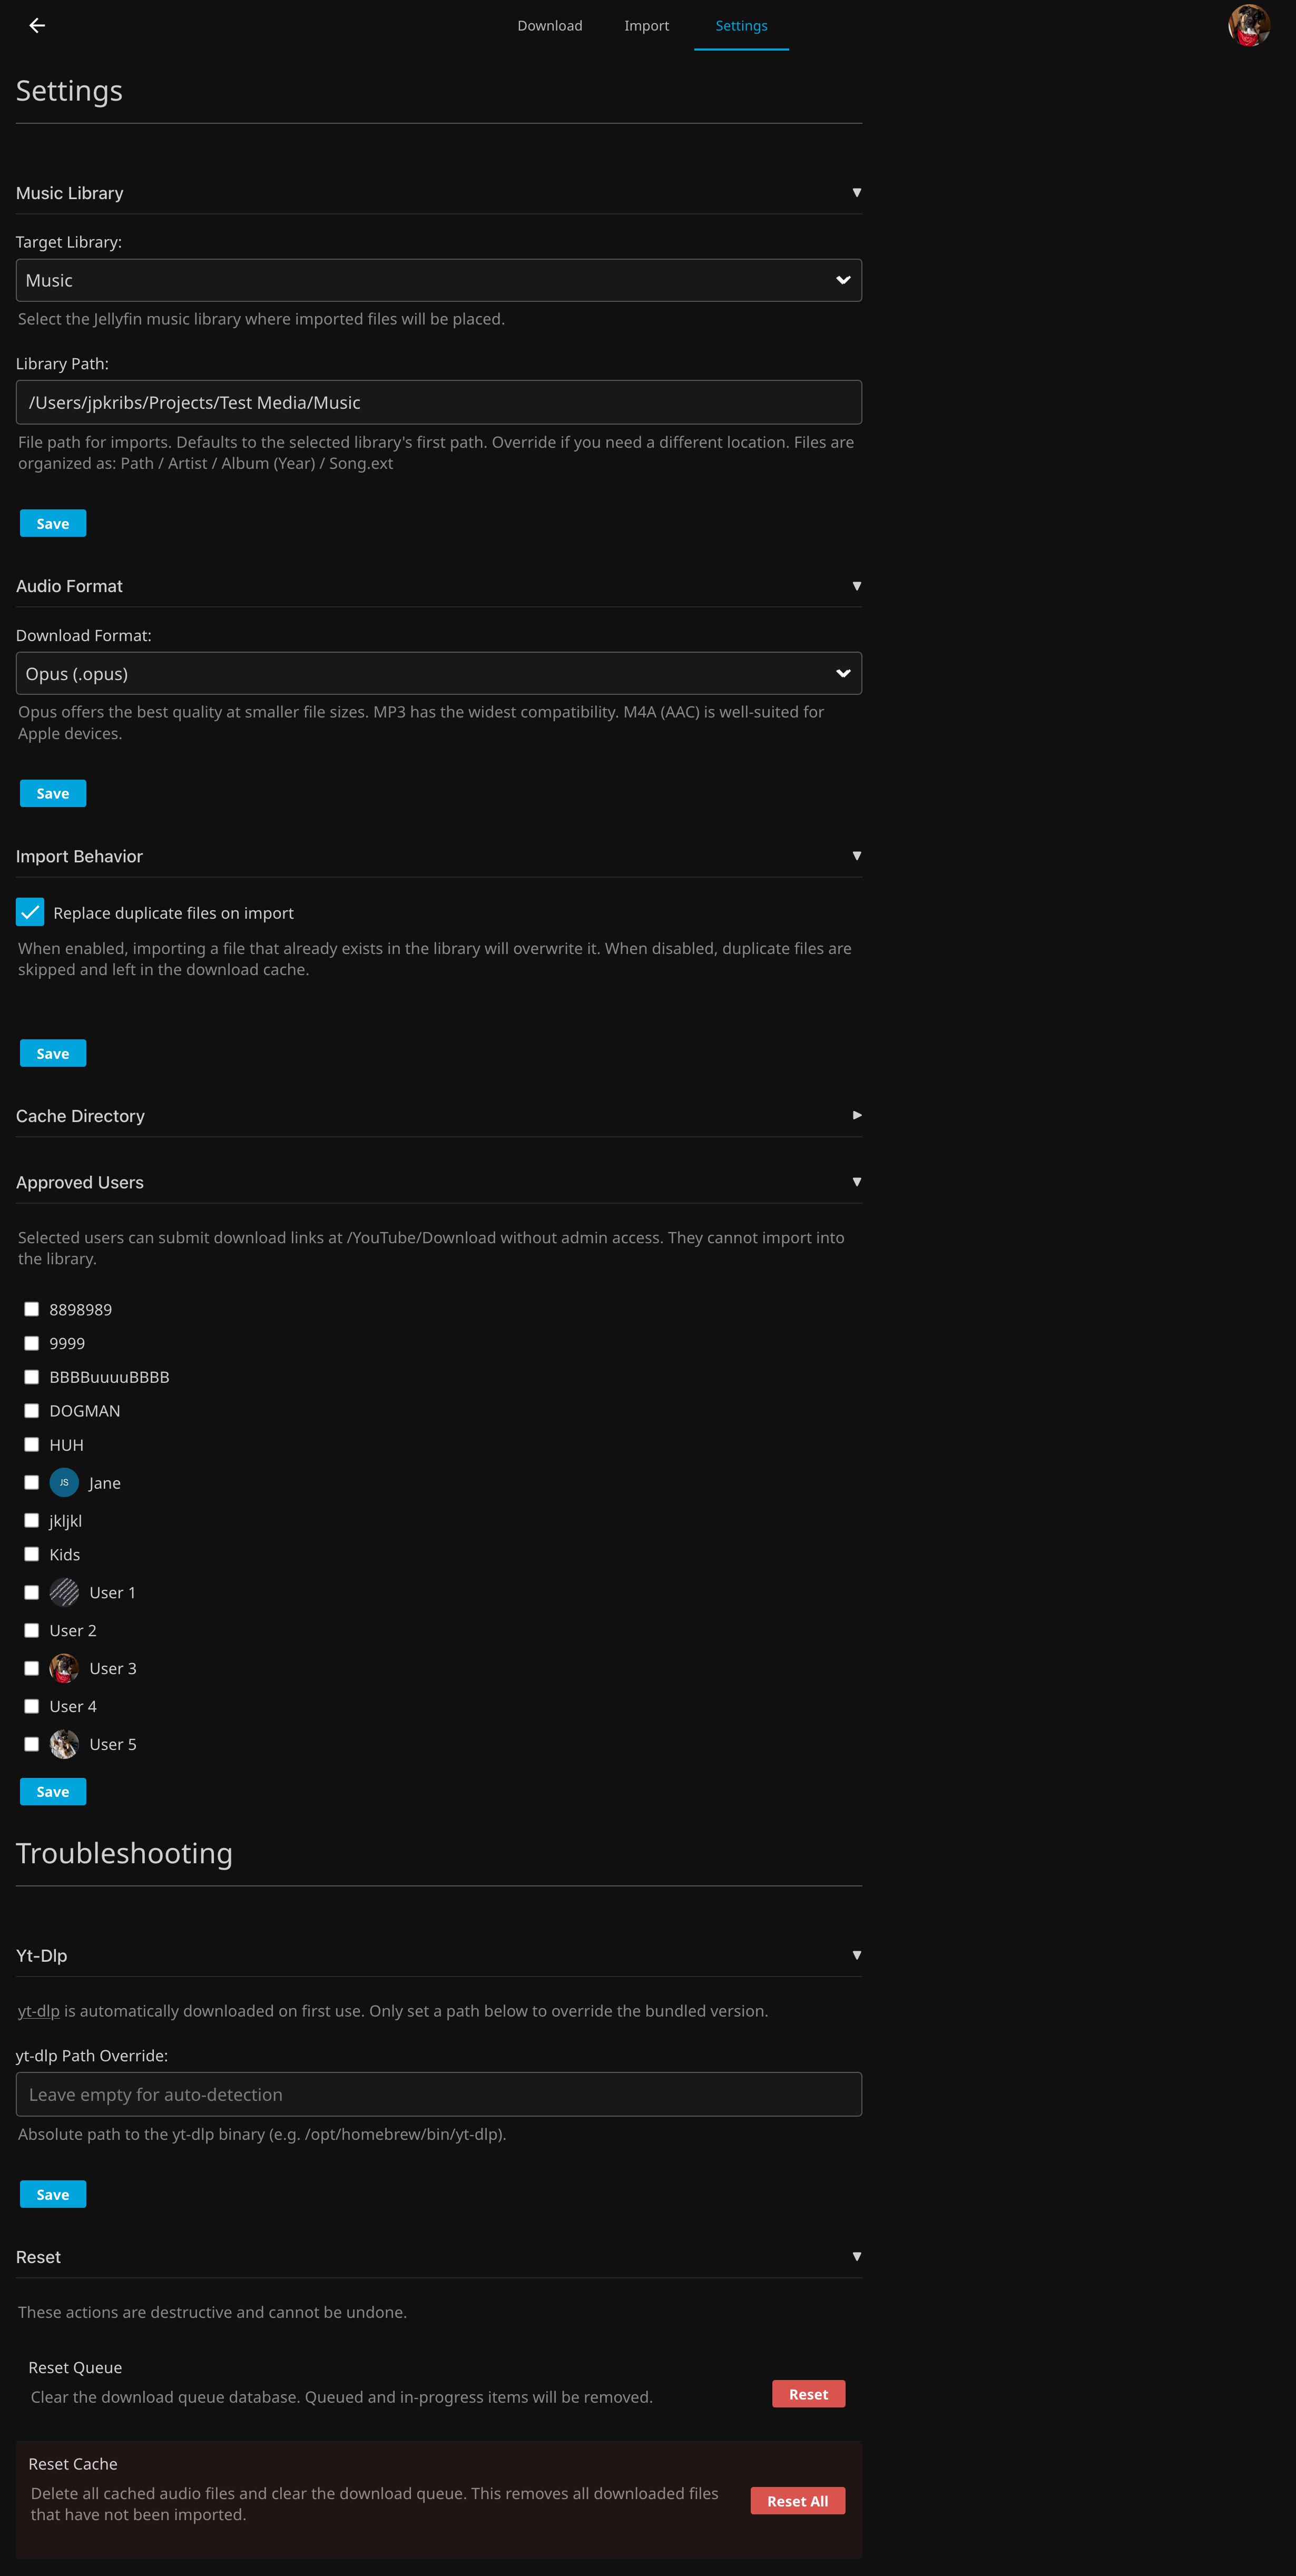
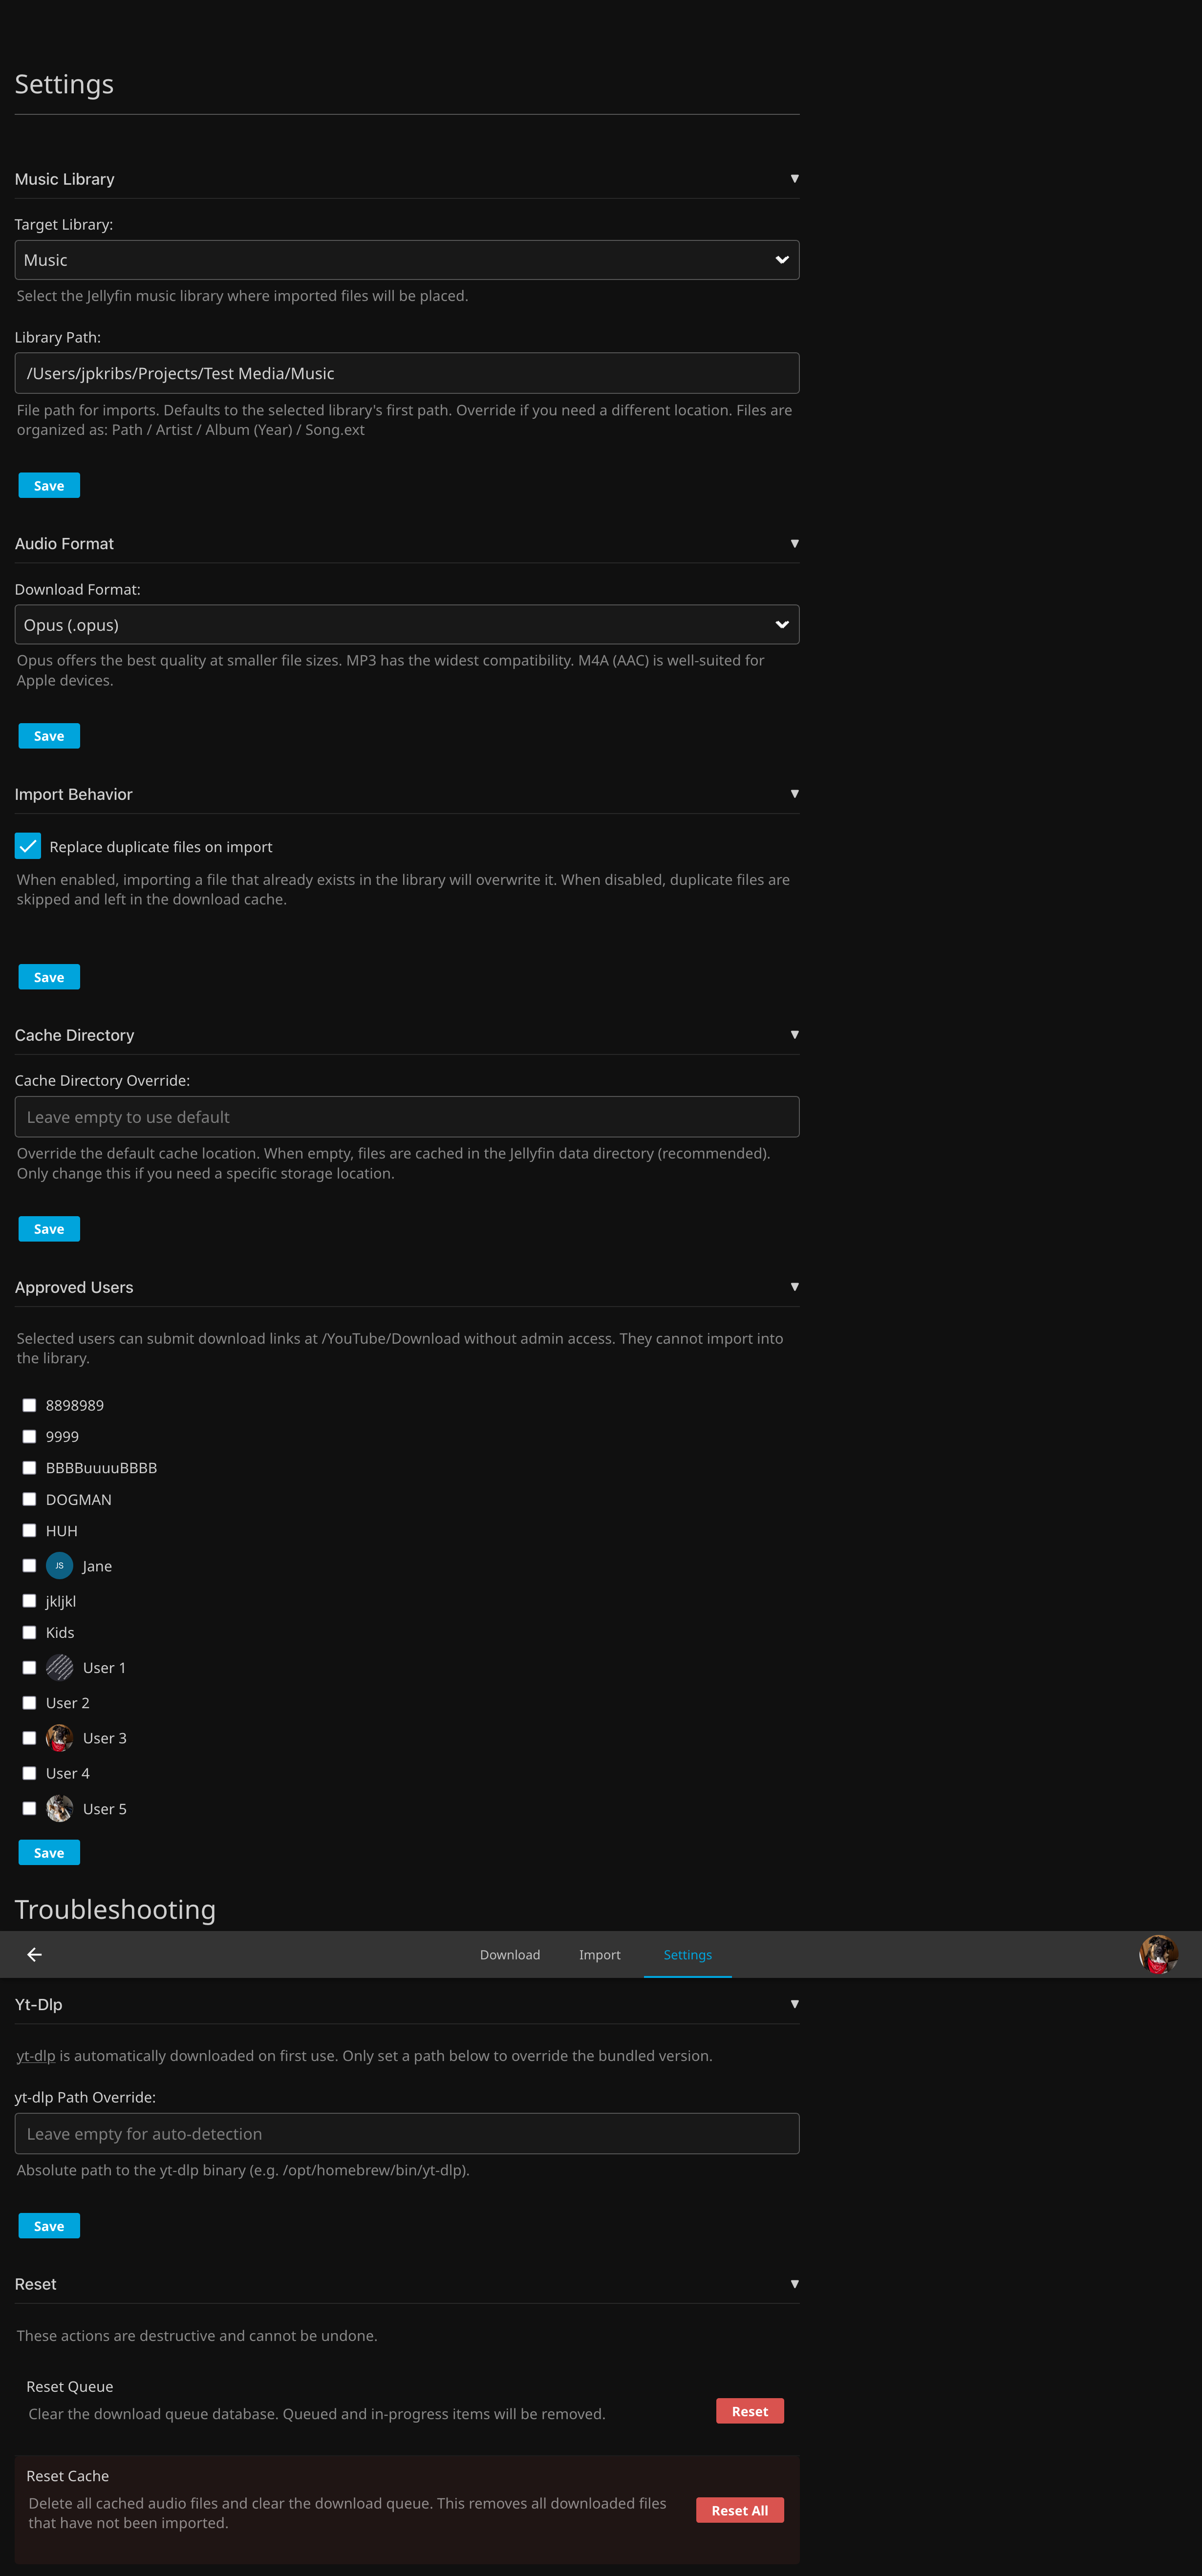
README fixes

diff --git a/README.md b/README.md
@@ -35,6 +35,8 @@ YouTube Audio lets you paste a YouTube video or playlist URL, download the audio
 
 **Cache Directory** — By default, downloaded files are cached in the Jellyfin data directory. Override this if you need a specific staging location.
 
+**Approved Users** — By default, only users with access to the Admin Dashboard can download & import tracks. Enabling a user here allows select users to download tracks into your queue which you then can approve and import into your library.
+
 ### 2. Download
 
 #### Queue up audio for download.